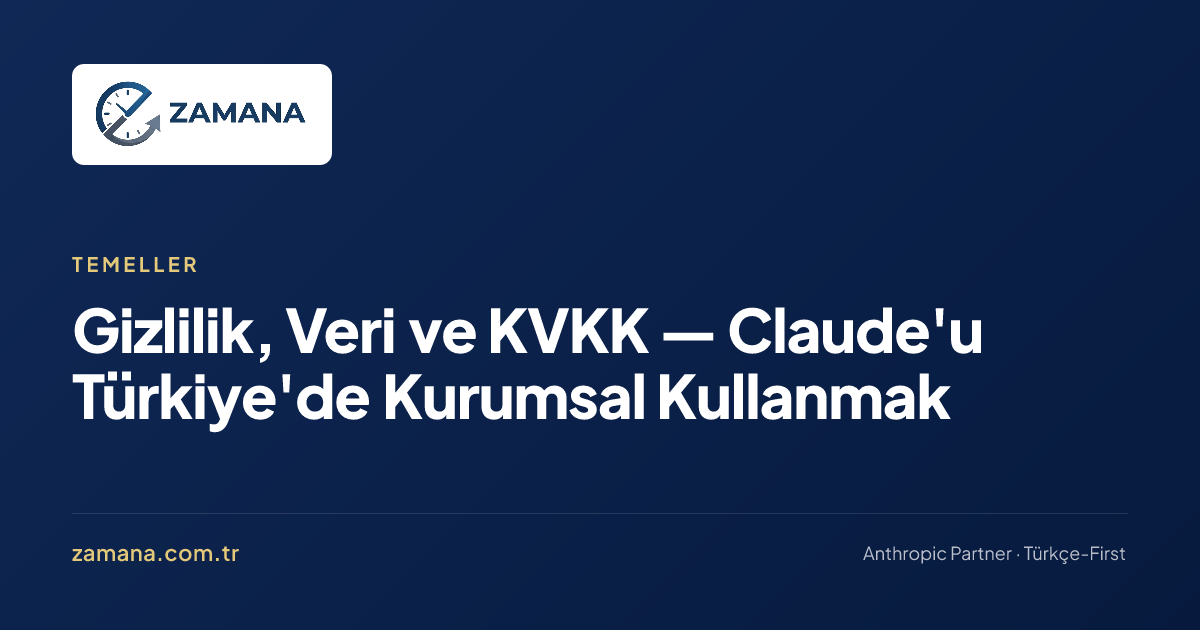
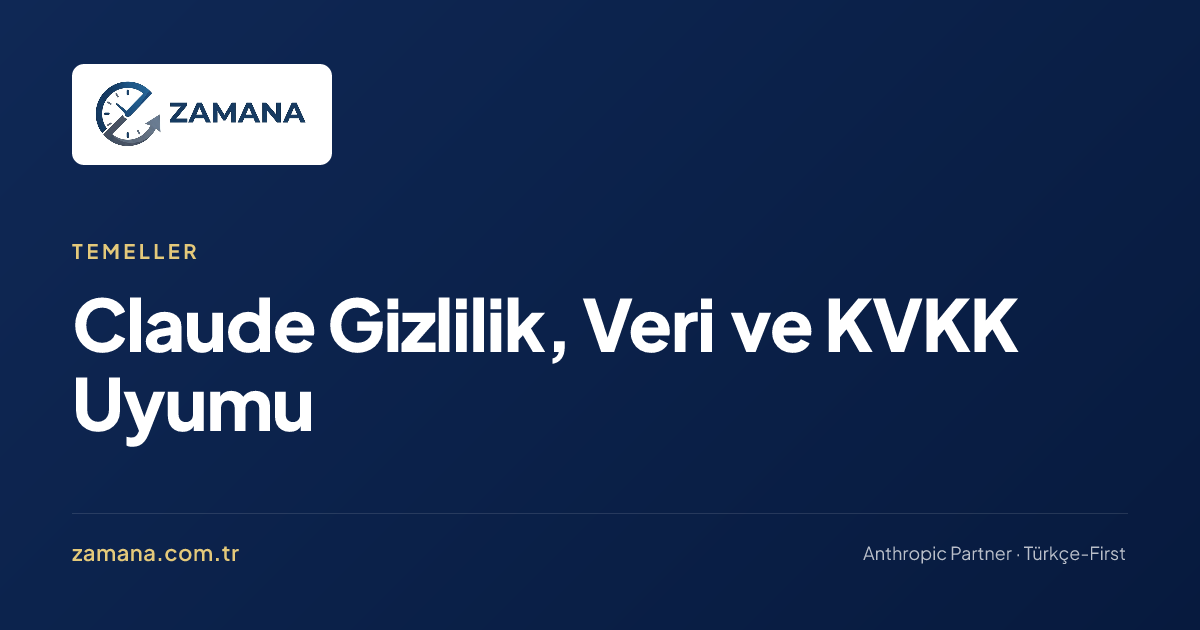
SEO: fix redirects, add HSTS + llms.txt, shorten titles, boost content
- Add trailing slashes to all internal links (Header nav, Footer, CTAs,
  ctaHref props, Schema.org url fields) so they no longer 308-redirect;
  fixes Semrush permanent-redirects and one-incoming-link warnings
- Add public/llms.txt (llmstxt.org format) for AI crawlers
- Add HSTS header (Strict-Transport-Security) to public/_headers
- Shorten over-length <title> on gizlilik-kvkk and sss pages
- Add useful text section to iletisim (raise low text-HTML ratio)
- Add per-role lead sentences to claude-md template pages (semantic HTML)
- Add okuma-sirasi link from temeller index

Changed region(s): [[0.0617, 0.3921, 0.8633, 0.7238]]

diff --git a/src/content/wiki/claude-md/sablon-kutuphanesi.md b/src/content/wiki/claude-md/sablon-kutuphanesi.md
@@ -23,6 +23,8 @@ Her şablon **300-500 kelime aralığında** tutuldu. Daha uzun olursa Claude ba
 
 ## 1. Satış Profesyoneli
 
+**Kimler için:** B2B satış yapan, soğuk e-posta ve takip yazışması ağırlıklı çalışan biri.
+
 ```markdown
 # CLAUDE.md — [Adınız], Satış
 
@@ -59,6 +61,8 @@ Her şablon **300-500 kelime aralığında** tutuldu. Daha uzun olursa Claude ba
 [Satış departmanı](/wiki/departmanlar/satis/) sayfası yaklaşımı genişletir.
 
 ## 2. Pazarlama / İçerik
+
+**Kimler için:** İçerik üretimi, kampanya ve marka iletişimiyle ilgilenen pazarlamacı.
 
 ```markdown
 # CLAUDE.md — [Adınız], Pazarlama
@@ -98,6 +102,8 @@ Her şablon **300-500 kelime aralığında** tutuldu. Daha uzun olursa Claude ba
 [Pazarlama departmanı](/wiki/departmanlar/pazarlama/) sayfası ek detay verir.
 
 ## 3. Finans / Mali İşler
+
+**Kimler için:** Muhasebe, raporlama ve mevzuat takibi yapan mali işler çalışanı.
 
 ```markdown
 # CLAUDE.md — [Adınız], Finans
@@ -140,6 +146,8 @@ Sorumluluğum: [bütçeleme, raporlama, muhasebe, vergi — uygun olanları].
 
 ## 4. Hukuk
 
+**Kimler için:** Sözleşme ve Türk hukuku bağlamında çalışan hukuk profesyoneli.
+
 ```markdown
 # CLAUDE.md — [Adınız], Hukuk
 
@@ -179,6 +187,8 @@ Sorumluluğum: [şirket içi sözleşme, iş hukuku, müşteri davaları, KVKK].
 [Hukuk departmanı](/wiki/departmanlar/hukuk/) sayfası kapsamı genişletir.
 
 ## 5. İnsan Kaynakları
+
+**Kimler için:** İşe alım, çalışan yazışmaları ve İK süreçlerini yürüten biri.
 
 ```markdown
 # CLAUDE.md — [Adınız], İnsan Kaynakları
@@ -222,6 +232,8 @@ ve gelişimi sorumluluğum.
 
 ## 6. Operasyon / Üretim Müdürü
 
+**Kimler için:** Tesis, üretim planlama ve operasyon yöneten bir müdür.
+
 ```markdown
 # CLAUDE.md — [Adınız], Operasyon
 
@@ -259,6 +271,8 @@ Ekip büyüklüğü: [sayı]. Tesis [konum].
 [Operasyon departmanı](/wiki/departmanlar/operasyon/) genişletir.
 
 ## 7. Müşteri Hizmetleri
+
+**Kimler için:** Müşteri talepleri, şikayet yönetimi ve destek yazışması yapan biri.
 
 ```markdown
 # CLAUDE.md — [Adınız], Müşteri Hizmetleri
@@ -298,6 +312,8 @@ kapatıyorum. Kanallar: [e-posta, telefon, chat, sosyal medya].
 
 ## 8. Yönetici / C-Level
 
+**Kimler için:** Stratejik karar, özet ve kurul iletişimi ihtiyacı olan üst düzey yönetici.
+
 ```markdown
 # CLAUDE.md — [Adınız], [CEO / Genel Müdür / Direktör]
 
@@ -336,6 +352,8 @@ kapatıyorum. Kanallar: [e-posta, telefon, chat, sosyal medya].
 [Liderlik departmanı](/wiki/departmanlar/liderlik/) yaklaşımı derinleştirir.
 
 ## 9. BT / IT Yöneticisi
+
+**Kimler için:** Altyapı, güvenlik ve teknik süreç yöneten BT sorumlusu.
 
 ```markdown
 # CLAUDE.md — [Adınız], Bilgi Teknolojileri

diff --git a/src/content/wiki/claude-md/ornekler.md b/src/content/wiki/claude-md/ornekler.md
@@ -15,6 +15,8 @@ lastUpdated: "2026-05-06"
 
 ## 1. Satış Yöneticisi (B2B)
 
+**Kimler için:** B2B satış yöneten, ekip ve kota sorumluluğu olan biri. Teklif, takip e-postası ve müşteri notları ağırlıklı çalışıyorsanız bu örnekten başlayın.
+
 ```markdown
 # CLAUDE.md — Ahmet Yılmaz
 
@@ -80,6 +82,8 @@ lastUpdated: "2026-05-06"
 ```
 
 ## 2. Finans Direktörü (CFO)
+
+**Kimler için:** Finansal raporlama, bütçe ve analiz işlerini yürüten üst düzey finans yöneticisi. Sayısal doğruluk ve mevzuat hassasiyeti öne çıkar.
 
 ```markdown
 # CLAUDE.md — Elif Demir
@@ -156,6 +160,8 @@ lastUpdated: "2026-05-06"
 
 ## 3. Hukuk Müşaviri
 
+**Kimler için:** Sözleşme, mevzuat takibi ve hukuki görüş üreten bir hukuk profesyoneli. Türk hukuku bağlamı ve dikkatli dil bu örnekte önceliklidir.
+
 ```markdown
 # CLAUDE.md — Av. Can Aksoy
 
@@ -227,6 +233,8 @@ lastUpdated: "2026-05-06"
 
 ## 4. Küçük İşletme Sahibi
 
+**Kimler için:** Satıştan muhasebeye kadar çok rolü tek başına üstlenen küçük işletme sahibi. Hız ve pratiklik bu örnekte esastır.
+
 ```markdown
 # CLAUDE.md — Selin Öztürk
 
@@ -287,6 +295,8 @@ lastUpdated: "2026-05-06"
 ```
 
 ## 5. Yönetici Asistanı
+
+**Kimler için:** Takvim, yazışma ve koordinasyon yükünü taşıyan yönetici asistanı. Kısa, net ve nazik iletişim bu örnekte önceliklidir.
 
 ```markdown
 # CLAUDE.md — Derya Kara

diff --git a/src/content/wiki/temeller/index.md b/src/content/wiki/temeller/index.md
@@ -124,5 +124,6 @@ Temeller'i okuduysanız şu bölümler mantıklı devamdır:
 
 - [**Araçlar**](/wiki/araclar/) — Claude'u nerede kullanırsınız (Desktop, Cowork, Claude.ai)
 - [**CLAUDE.md**](/wiki/claude-md/) — Claude'u kişiselleştiren kalıcı hafıza dosyası
-- [**Prompting**](/wiki/prompting/) — Claude'la nasıl konuşulur — 4D Çerçevesi bu bölümdedir
+- [**Prompting**](/wiki/prompting/) — Claude'la nasıl konuşulur, 4D Çerçevesi bu bölümdedir
+- [**Önerilen Okuma Sırası**](/wiki/okuma-sirasi/) — Tüm wiki için baştan sona önerilen okuma yolu
 

diff --git a/src/content/wiki/temeller/sss.md b/src/content/wiki/temeller/sss.md
@@ -1,5 +1,5 @@
 ---
-title: Sık Sorulan Sorular (SSS) — Bireysel ve Kurumsal Claude Kullanımı
+title: "Claude Sık Sorulan Sorular (SSS)"
 description: "Claude'u kullanmayı düşünürken, bireysel veya şirket olarak akla gelen yaygın sorular ve net cevaplar. Güvenlik, veri, maliyet, adaptasyon ve KVKK."
 tags:
   - temeller

diff --git a/src/content/wiki/temeller/gizlilik-kvkk.md b/src/content/wiki/temeller/gizlilik-kvkk.md
@@ -1,5 +1,5 @@
 ---
-title: "Gizlilik, Veri ve KVKK — Claude'u Türkiye'de Kurumsal Kullanmak"
+title: "Claude Gizlilik, Veri ve KVKK Uyumu"
 description: "Claude ile çalışırken veri gizliliği, eğitim verisi politikaları, KVKK uyumluluğu, DPA ve Türkiye'deki kurumsal kullanım kuralları."
 tags:
   - temeller
